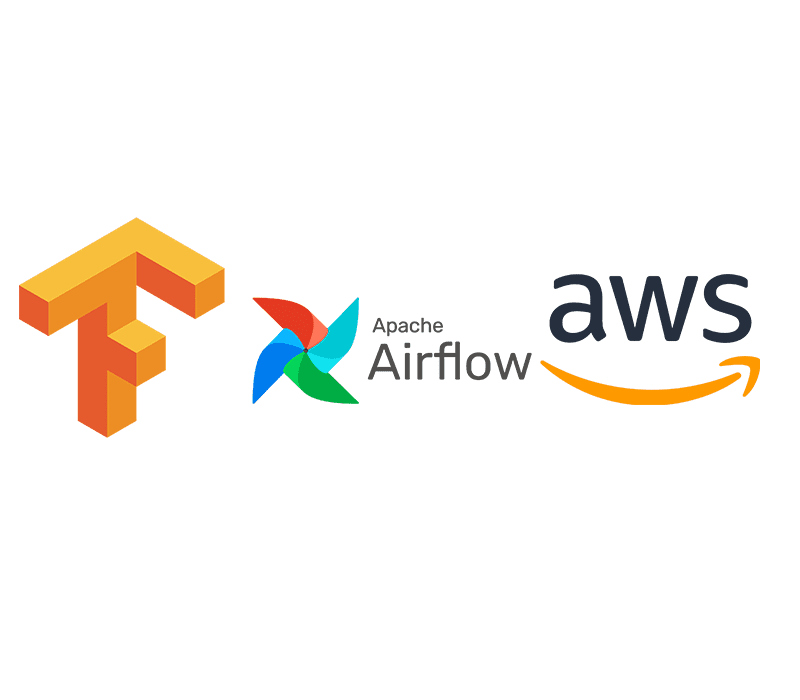
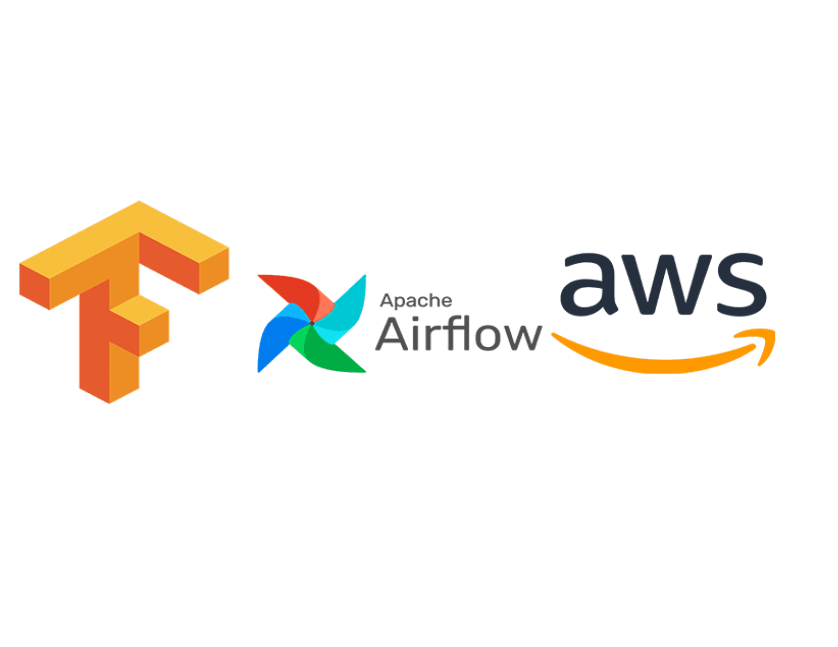
add apache-airflow

diff --git a/pages/works.js b/pages/works.js
@@ -27,7 +27,7 @@ const Works = () => (
         <Section>
           <WorkGridItem 
             id="apacheairflow" 
-            title="apacheairflow" 
+            title="Apache Airflow" 
             thumbnail={thumbApacheAirflow}
           >
             Building Business intelligence datapipeline using Apache Airflow
